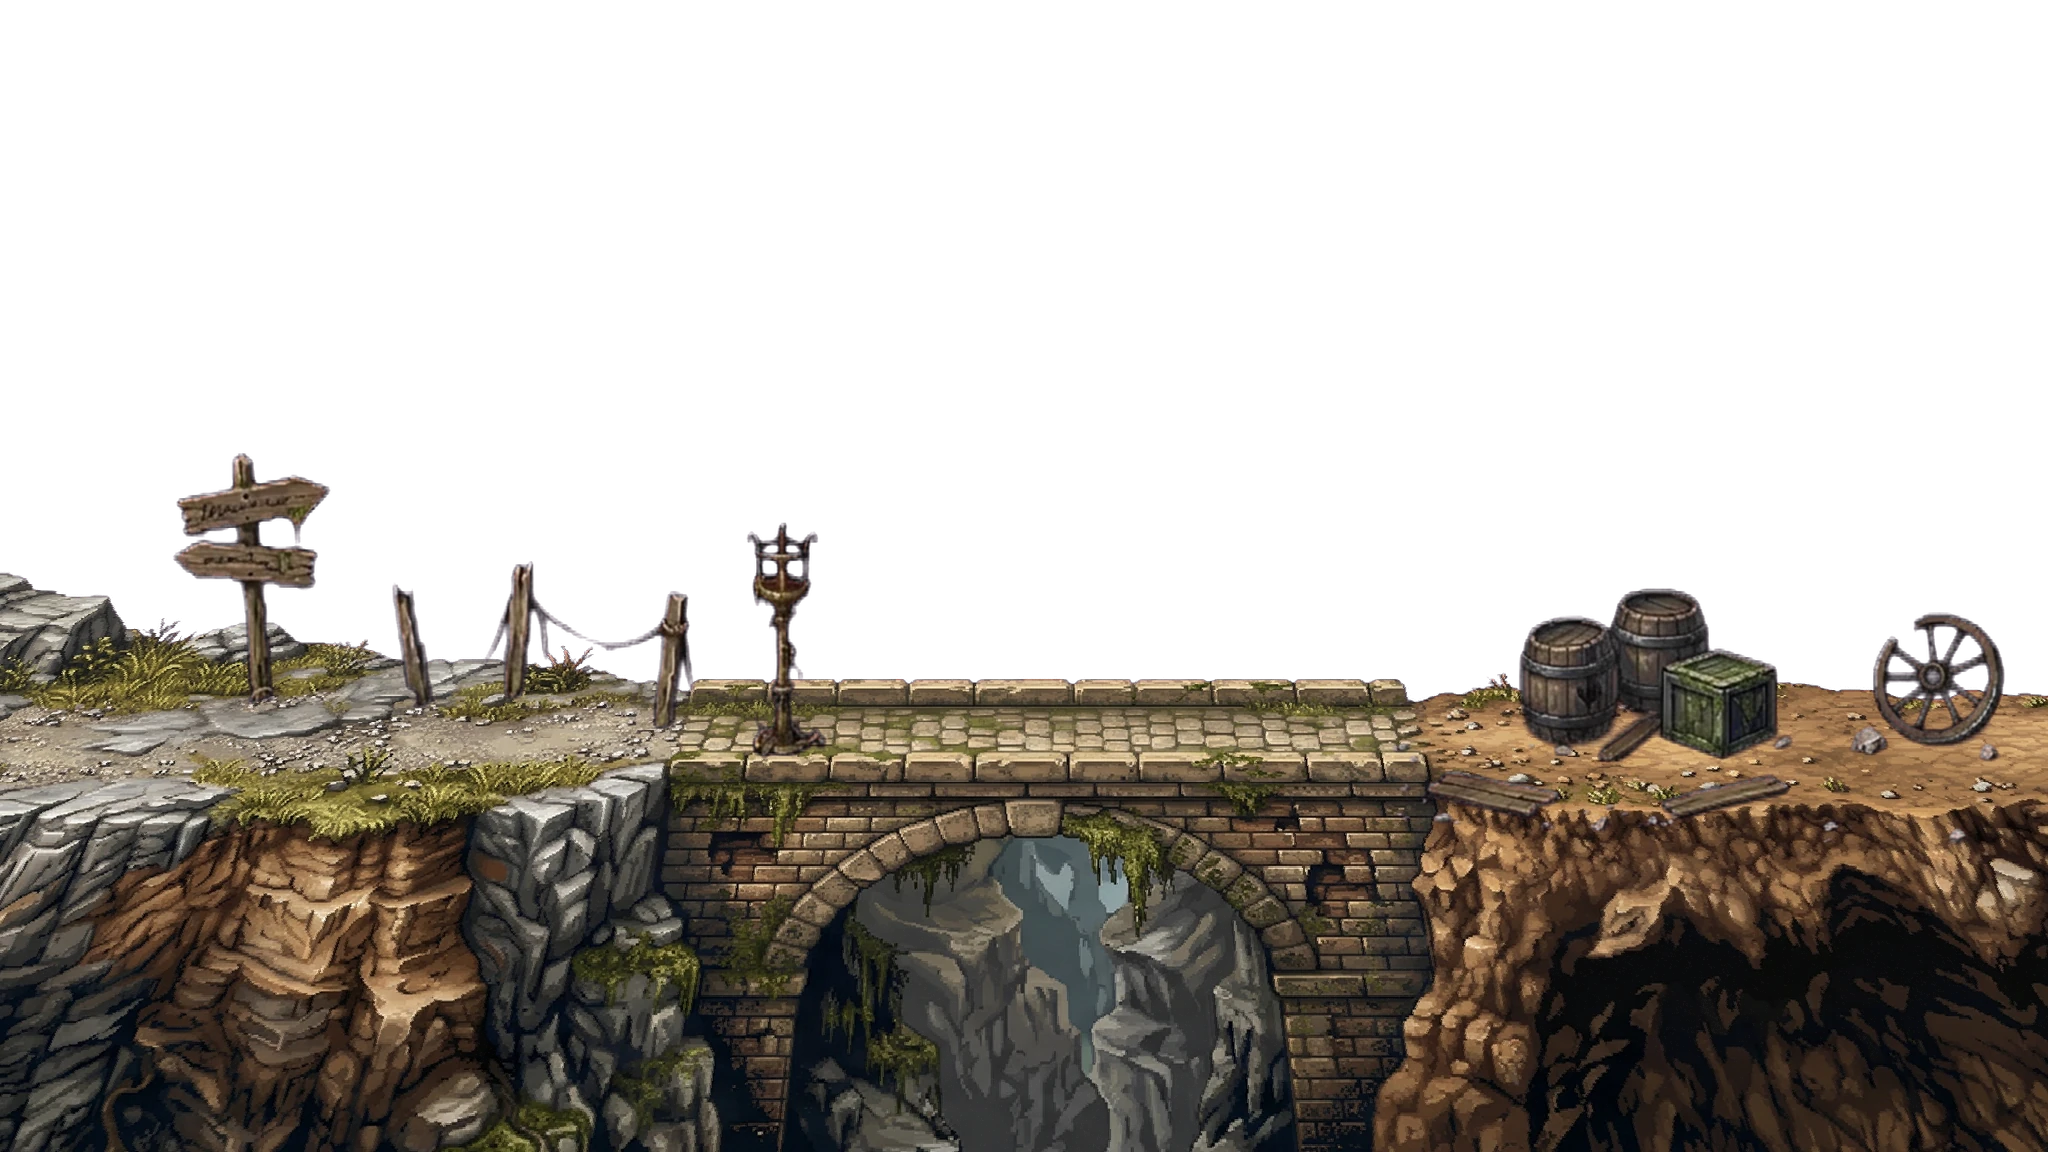
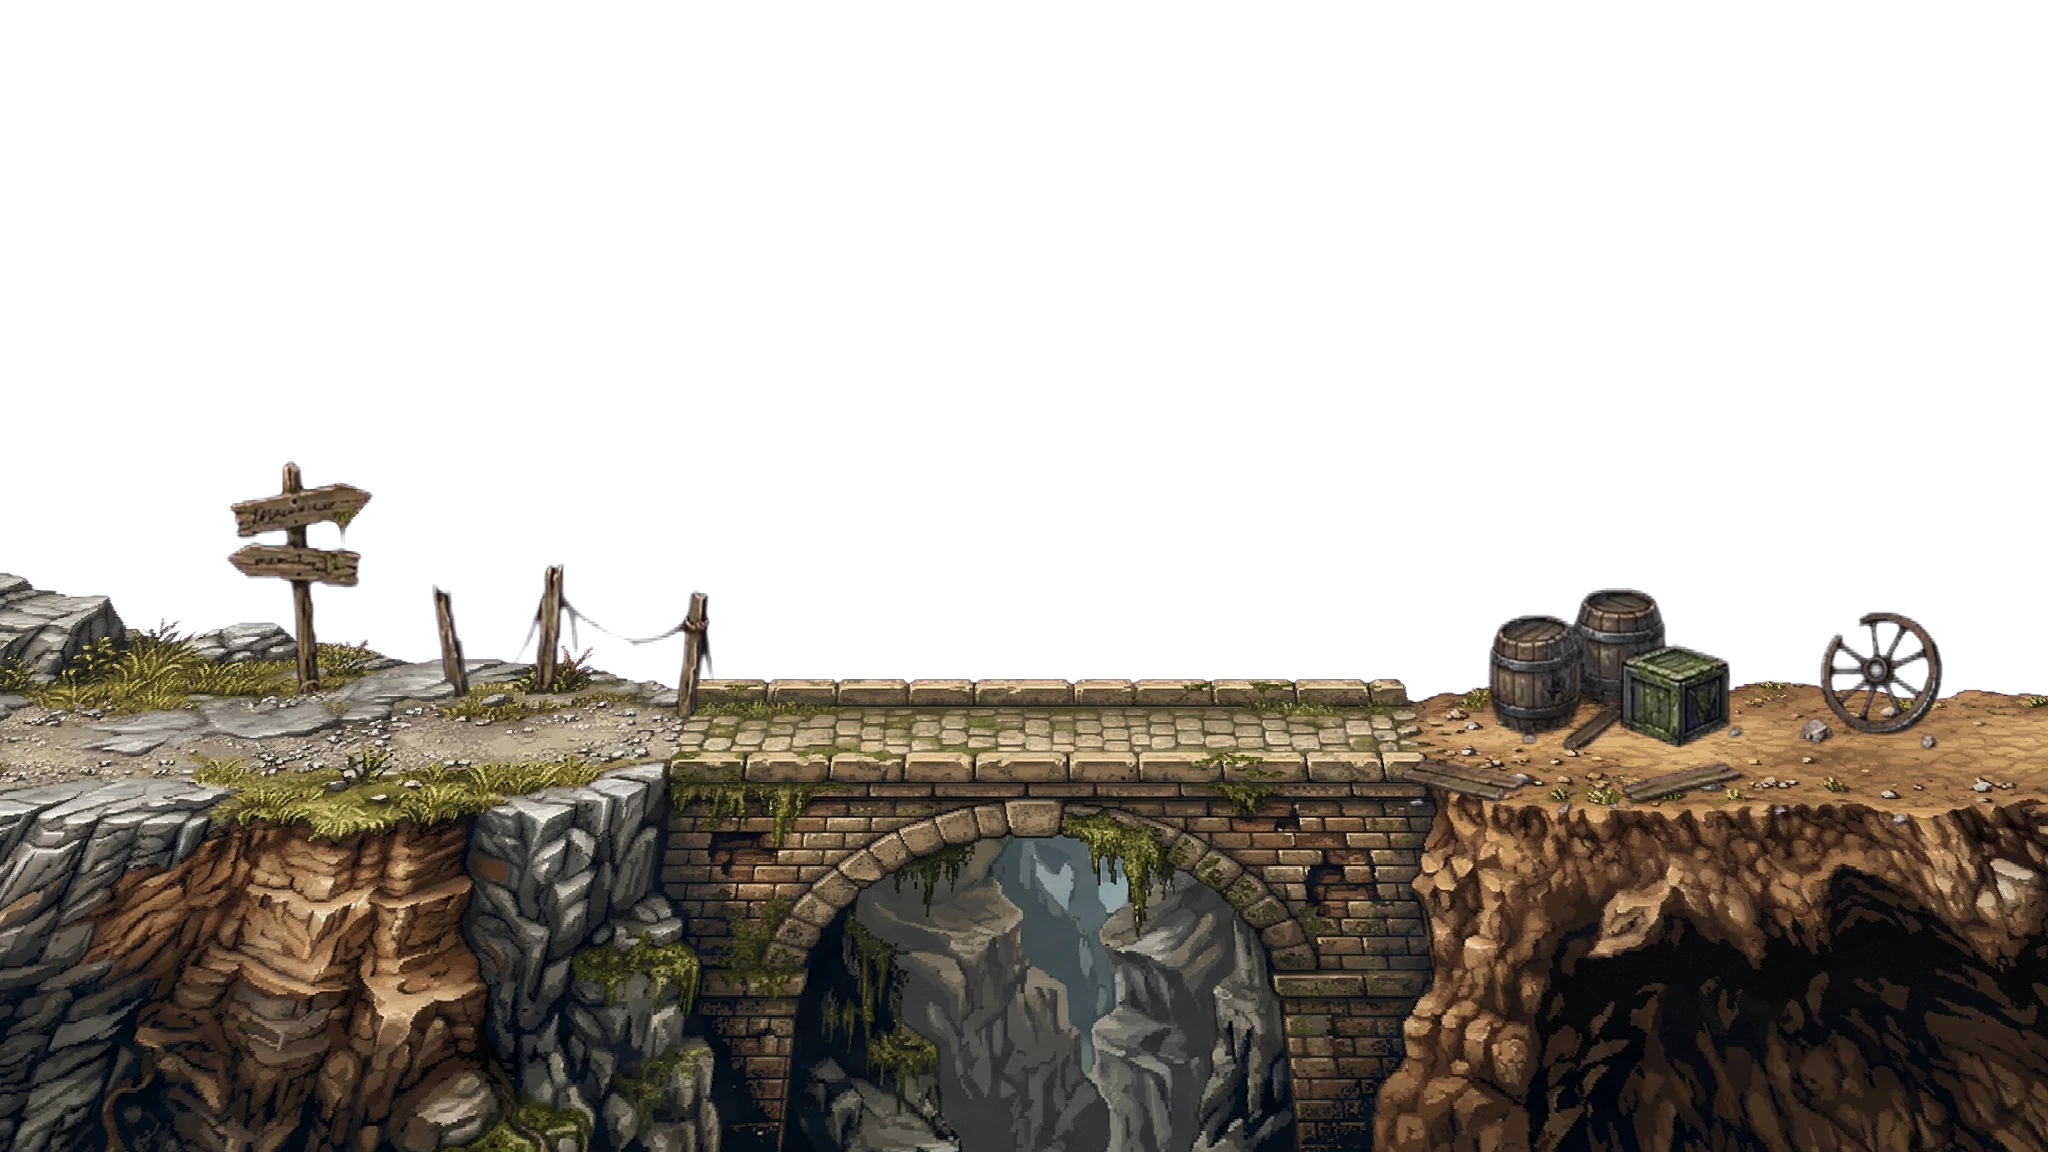
Wind map: new item layer, move player and monsters down 7px
- Rebuild wind3d base.webp with the updated wind item layer (keyed,
  centred on the 2048x1152 3D frame).
- Move player and monster stand points down 7px.
- Bump ui.js cache version.

Claude-Session: https://claude.ai/code/session_01W4v7cyzS6Fr8aMVaGgywWE

Changed region(s): [[0.6875, 0.5, 1.0, 0.7188], [0.0625, 0.375, 0.4062, 0.6562]]

diff --git a/js/ui.js b/js/ui.js
@@ -1226,7 +1226,7 @@ const WIND_ART_MODE = '3d'; // '3d' = Blender 2.5D layers (same style as Earth);
 // Wind combat art: same 3D layers as the other maps (sky, tilted ground with the items flat on top, forest)
 function wind3dArt() {
     // Ice 3D stand points moved up 70px
-    const feet = [500, 690], monsterFeet = [[820, 690], [960, 680], [1150, 675], [1350, 675], [1550, 680], [1740, 685]];
+    const feet = [500, 697], monsterFeet = [[820, 697], [960, 687], [1150, 682], [1350, 682], [1550, 687], [1740, 692]];
     return {
         bg: ['assets/combat/wind3d/sky.webp'],
         base: ['assets/combat/wind3d/base.webp'],

diff --git a/index.html b/index.html
@@ -1333,7 +1333,7 @@
     <script src="js/hero-body.js?v=20261109za"></script>
     <script src="js/combat.js?v=20261111e"></script>
     <script src="js/crit-fx.js?v=20261110e"></script>
-    <script src="js/ui.js?v=20261111u"></script>
+    <script src="js/ui.js?v=20261111v"></script>
     <script src="js/beginner-quest.js?v=20261107l"></script>
     <script src="js/friends.js?v=20261109k"></script>
     <script src="js/town.js?v=20261110e"></script>
